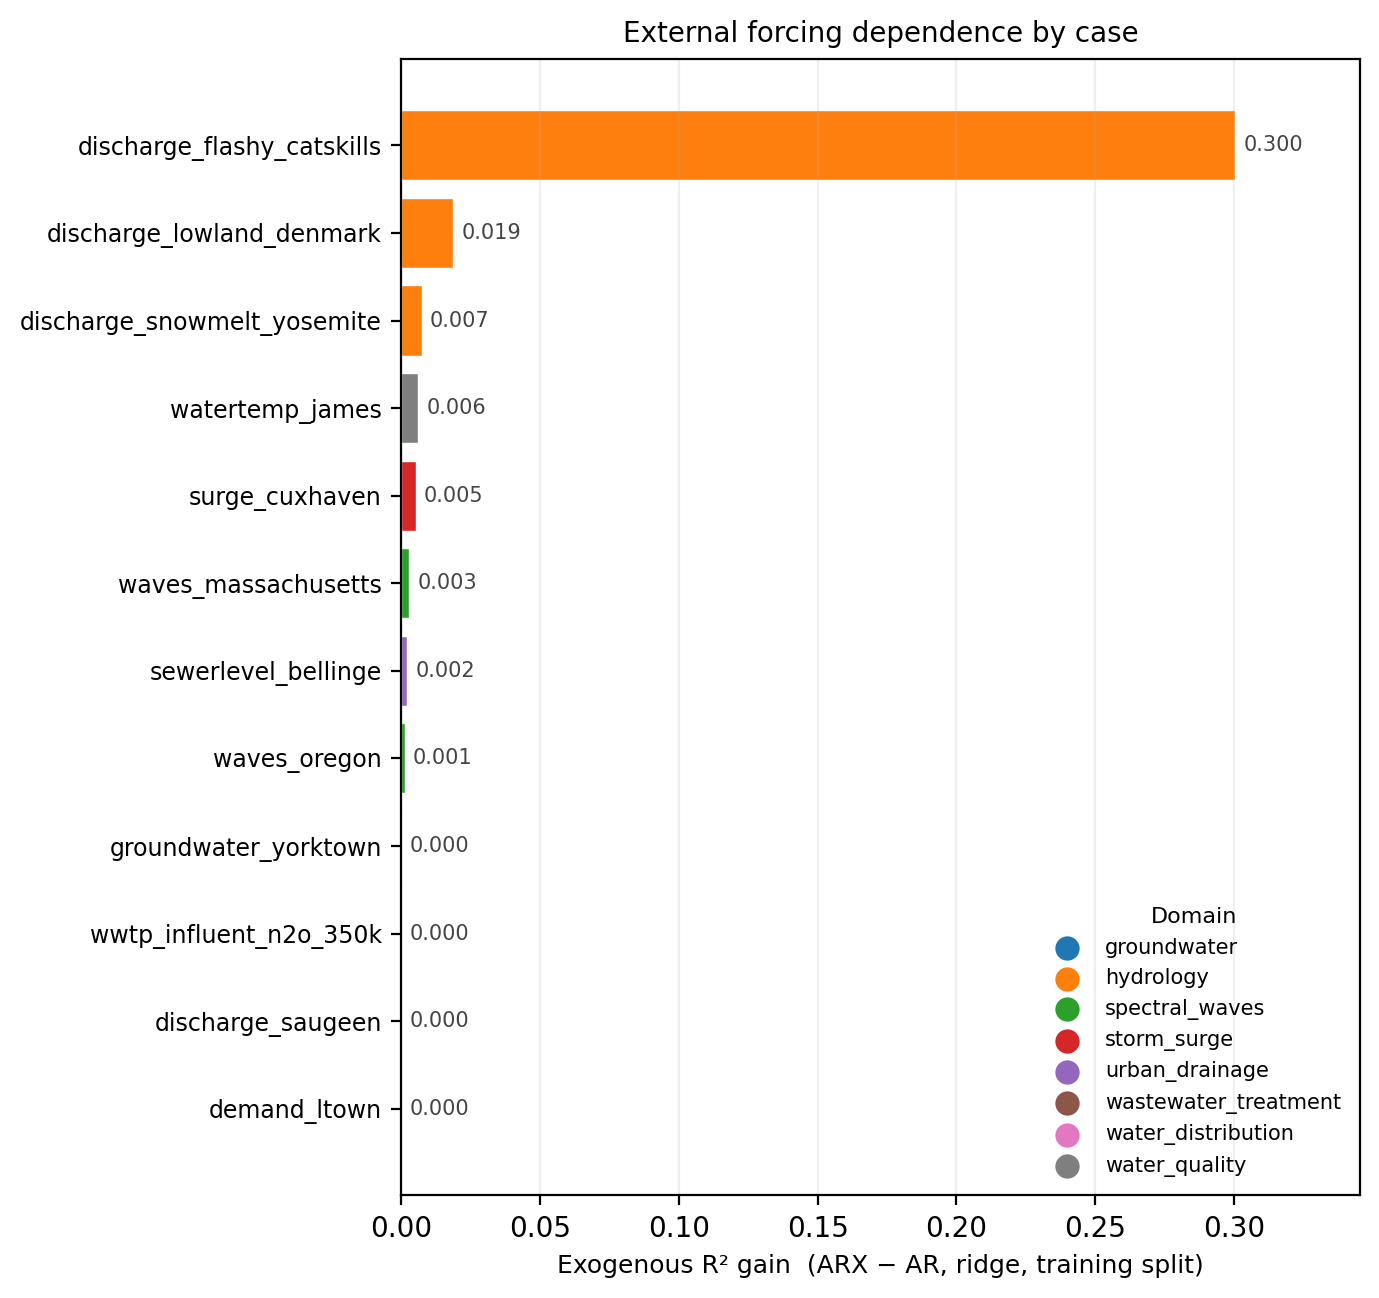
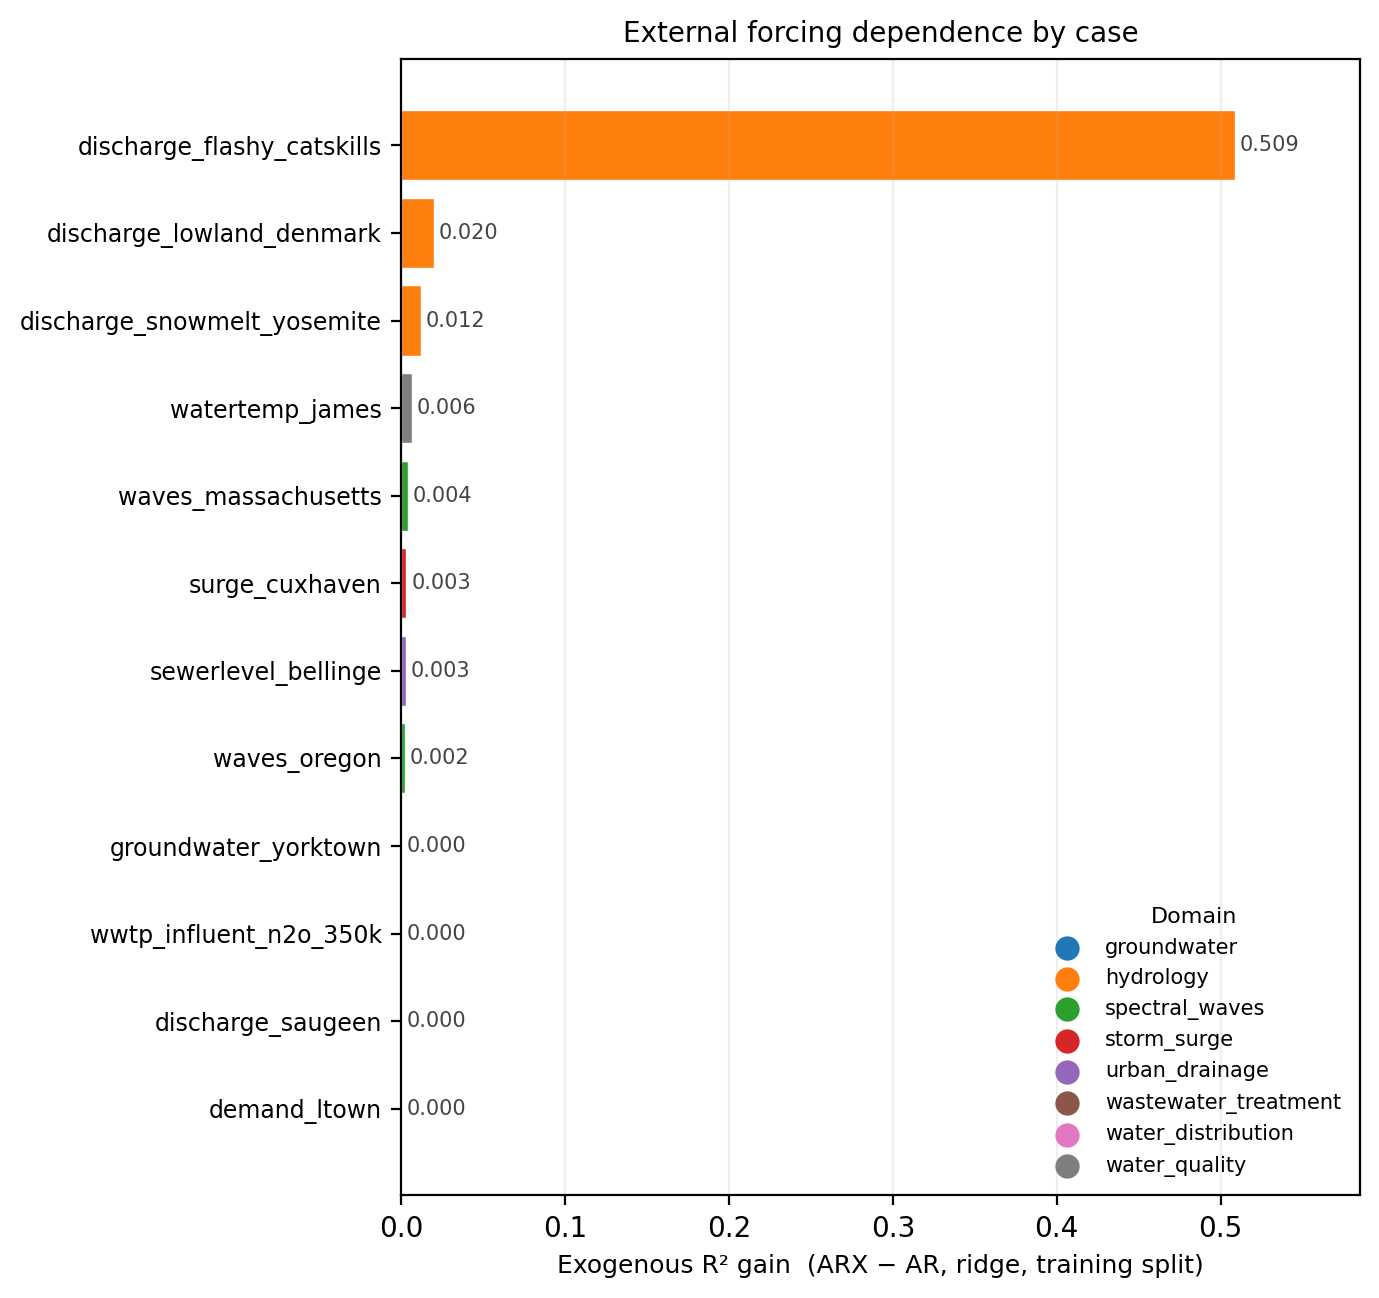
Include poly features in morphology exog_r2_gain

diff --git a/src/tsforecastbench/morphology/features.py b/src/tsforecastbench/morphology/features.py
@@ -11,6 +11,7 @@ import numpy as np
 from scipy import stats
 from scipy.signal import periodogram
 from sklearn.linear_model import Ridge
+from sklearn.preprocessing import PolynomialFeatures
 from statsmodels.tsa.seasonal import STL
 from statsmodels.tsa.stattools import acf as sm_acf
 
@@ -125,11 +126,19 @@ def exog_r2_gain(
     X_exog: np.ndarray | None,
     period: int,
     n_exog_lags: int,
+    poly_degree: int = 1,
 ) -> float:
     """R² gain of a ridge ARX model over a pure ridge AR model.
 
     Both models are fit on the same data (training split). Returns 0.0 for
     univariate cases. Clipped to [0, 1].
+
+    When ``poly_degree`` > 1, polynomial features are computed on the raw
+    series *before* lagging (poly → lags). Concretely: y is expanded to
+    [y, y², …] and X_exog to its degree-``poly_degree`` expansion, then each
+    derived series is lagged independently. This avoids the cross-lag
+    interaction explosion that occurs with the reverse order (lags → poly)
+    and keeps the feature count tractable even for long lag depths.
 
     Limitation: a weak linear AR baseline on impulsive or nonlinear series
     can inflate the gain beyond genuine external forcing dependence.
@@ -140,6 +149,7 @@ def exog_r2_gain(
     X_exog:       2-D exogenous array (n_samples × n_vars) or None.
     period:       Dominant seasonality period; AR order p = min(period, 30).
     n_exog_lags:  Exogenous lags included: 0..n_exog_lags.
+    poly_degree:  Polynomial expansion degree applied before lagging (1 = linear).
     """
     if X_exog is None or X_exog.ndim < 2 or X_exog.shape[1] == 0:
         return 0.0
@@ -153,9 +163,18 @@ def exog_r2_gain(
         return 0.0
 
     Y = y[max_lag:]
-    AR = np.column_stack([y[max_lag - lag: n - lag] for lag in range(1, p + 1)])
-    exog_blocks = [X_exog[max_lag - lag: n - lag, :] for lag in range(0, q + 1)]
-    ARX = np.hstack([AR] + exog_blocks)
+
+    # Expand raw series before lagging, then build lag matrices.
+    poly_y = PolynomialFeatures(degree=poly_degree, include_bias=False)
+    poly_x = PolynomialFeatures(degree=poly_degree, include_bias=False)
+
+    y_exp = poly_y.fit_transform(y.reshape(-1, 1))          # (n, d_y)
+    x_exp = poly_x.fit_transform(X_exog)                    # (n, d_x)
+
+    AR  = np.hstack([y_exp[max_lag - lag: n - lag] for lag in range(1, p + 1)])
+    ARX = np.hstack(
+        [AR] + [x_exp[max_lag - lag: n - lag] for lag in range(0, q + 1)]
+    )
 
     y_mean, y_std = Y.mean(), Y.std() + 1e-10
     Y_s = (Y - y_mean) / y_std

diff --git a/scripts/compute_morphology.py b/scripts/compute_morphology.py
@@ -331,7 +331,7 @@ def main() -> int:
         period = period_for_freq(case.freq)
         feats = compute_features(y, period)
         n_exog_lags = min(_horizon_steps(case), 30)
-        exog_gains[case_id] = exog_r2_gain(y, X_exog, period, n_exog_lags)
+        exog_gains[case_id] = exog_r2_gain(y, X_exog, period, n_exog_lags, poly_degree=2)
         records[case_id] = feats
         domains[case_id] = case.domain
         print("  ".join(f"{k}={v:+.3f}" for k, v in feats.items()) + f"  exog_r2_gain={exog_gains[case_id]:+.3f}")
